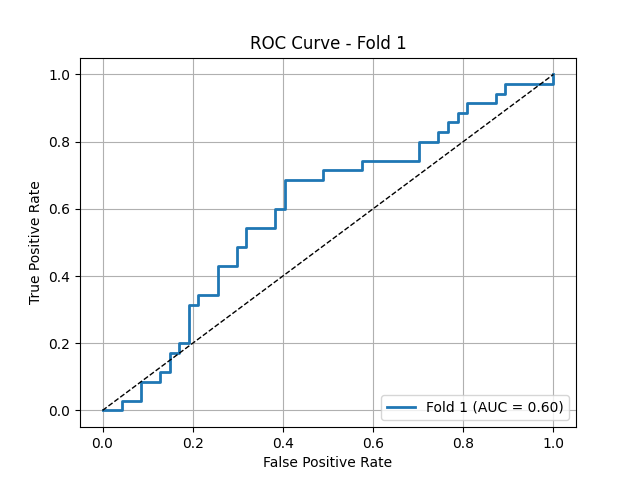
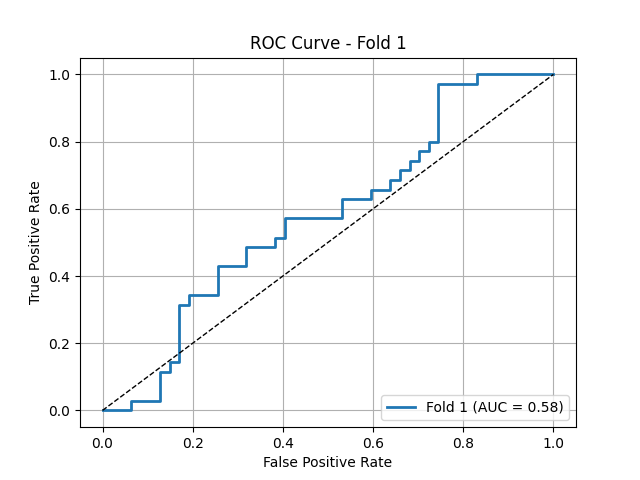
vgg16 and hybrid loss

diff --git a/models_imagenetbases.py b/models_imagenetbases.py
@@ -266,7 +266,7 @@ class ImageNet_Models(nn.Module):
         self._adapt_output_layer()
 
     def _adapt_input_layer(self):
-        if self.model_name.startswith("resnet") or self.model_name.startswith("inception"):
+        if self.model_name.startswith("resnet"):
             old_conv = self.model.conv1
             self.model.conv1 = nn.Conv2d(
                 in_channels=1,
@@ -296,6 +296,17 @@ class ImageNet_Models(nn.Module):
                 padding=old_conv.padding,
                 bias=old_conv.bias is not None
             )
+        elif self.model_name == "inception":
+            old_conv = self.model.Conv2d_1a_3x3.conv
+            new_conv = nn.Conv2d(
+                in_channels=1,
+                out_channels=old_conv.out_channels,
+                kernel_size=old_conv.kernel_size,
+                stride=old_conv.stride,
+                padding=old_conv.padding,
+                bias=old_conv.bias is not None
+            )
+            self.model.Conv2d_1a_3x3.conv = new_conv
 
     def _adapt_output_layer(self):
         if self.model_name.startswith("resnet") or self.model_name.startswith("inception"):
@@ -318,7 +329,7 @@ class BinaryClassification(pl.LightningModule):
     def __init__(self, input_dim=8192*2, num_classes = 1,  lr=1e-3, weight_decay=1e-5, encoder_weight_path = None, radiomics = False, radiomics_dim = 463):
         super().__init__()
         
-        self.model = ImageNet_Models(name_model="inception")
+        self.model = ImageNet_Models(name_model="vgg16")
 
 
         self.loss_fn = nn.BCEWithLogitsLoss()  #AsymmetricLoss()  #nn.BCEWithLogitsLoss()  # More stable than BCELoss

diff --git a/train_washu2_classifier.py b/train_washu2_classifier.py
@@ -41,7 +41,7 @@ all_tprs = []
 all_aucs = []
 
 project_title = "Ovarian Cancer Classification 4"
-Experiment_Group = f"Exp7:Inception_model_{commit_log}"
+Experiment_Group = f"Exp7:VGG16_model_{commit_log}"
 train_config = {
         "k_fold": k_fold,
         "batch_size": batch_size,
